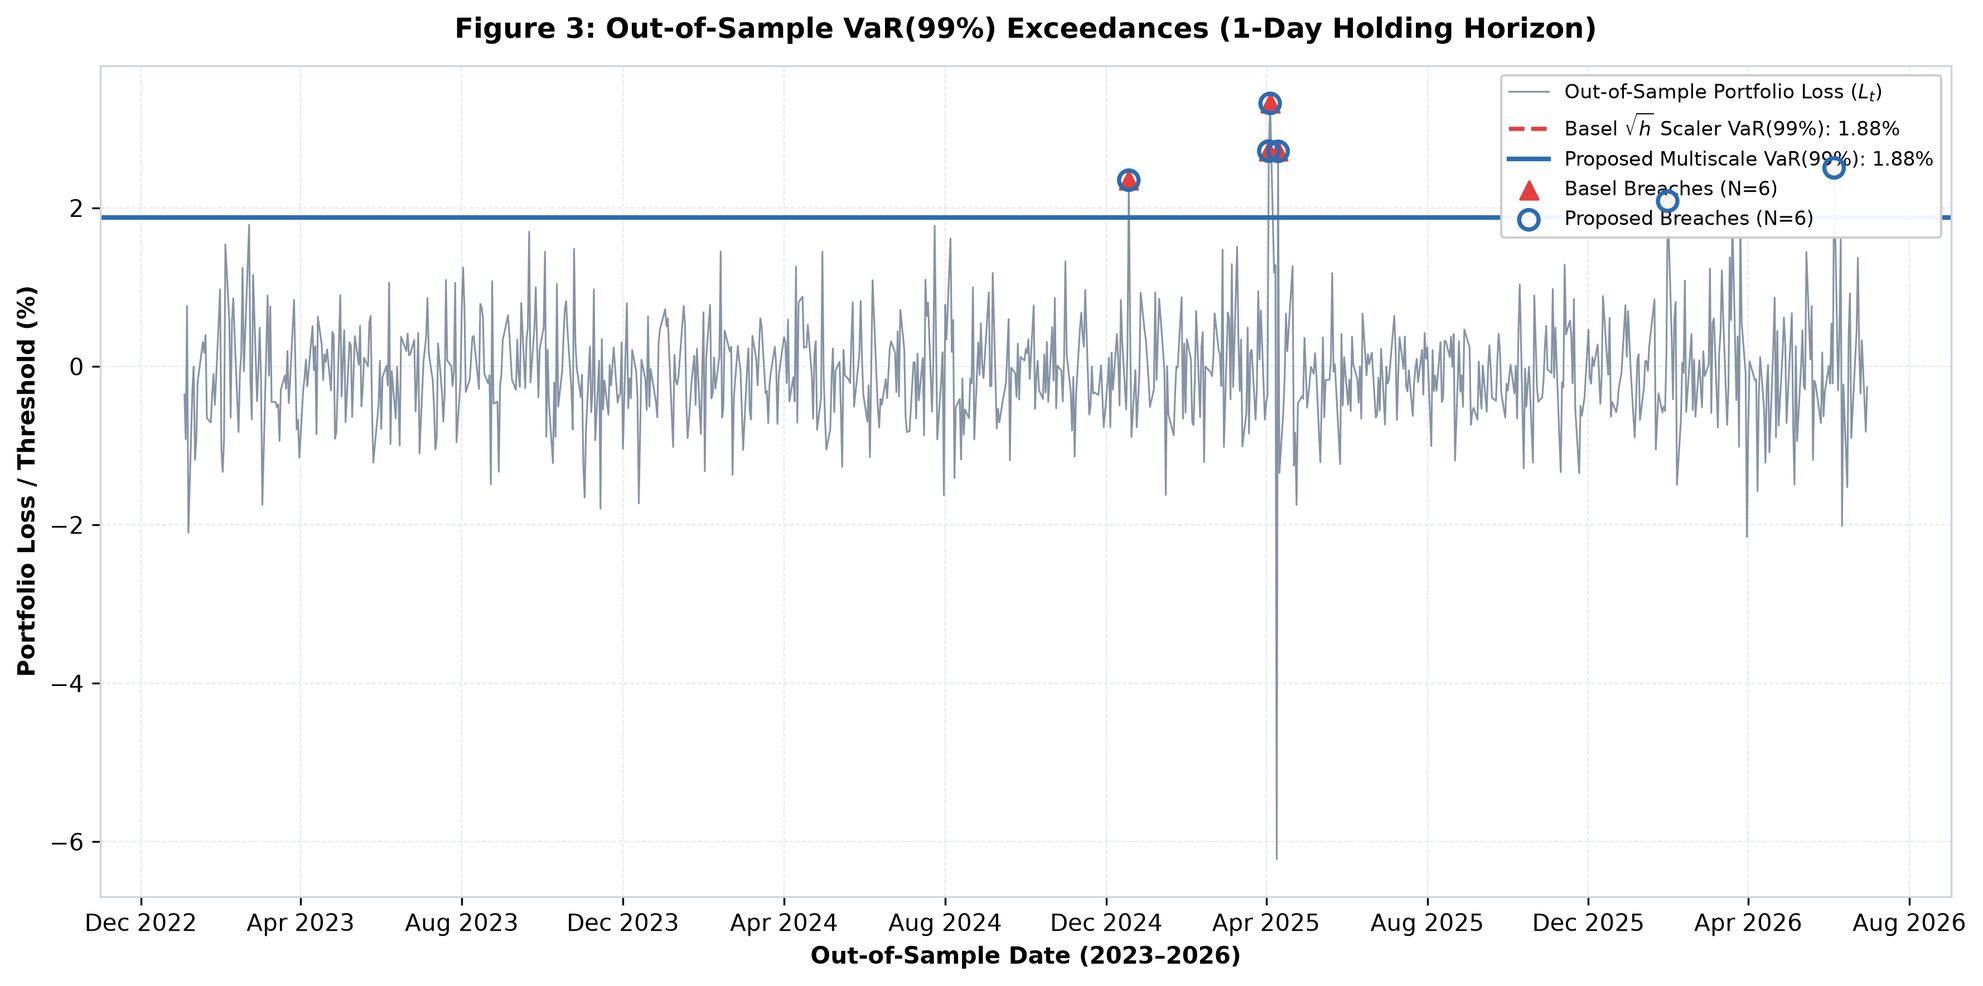
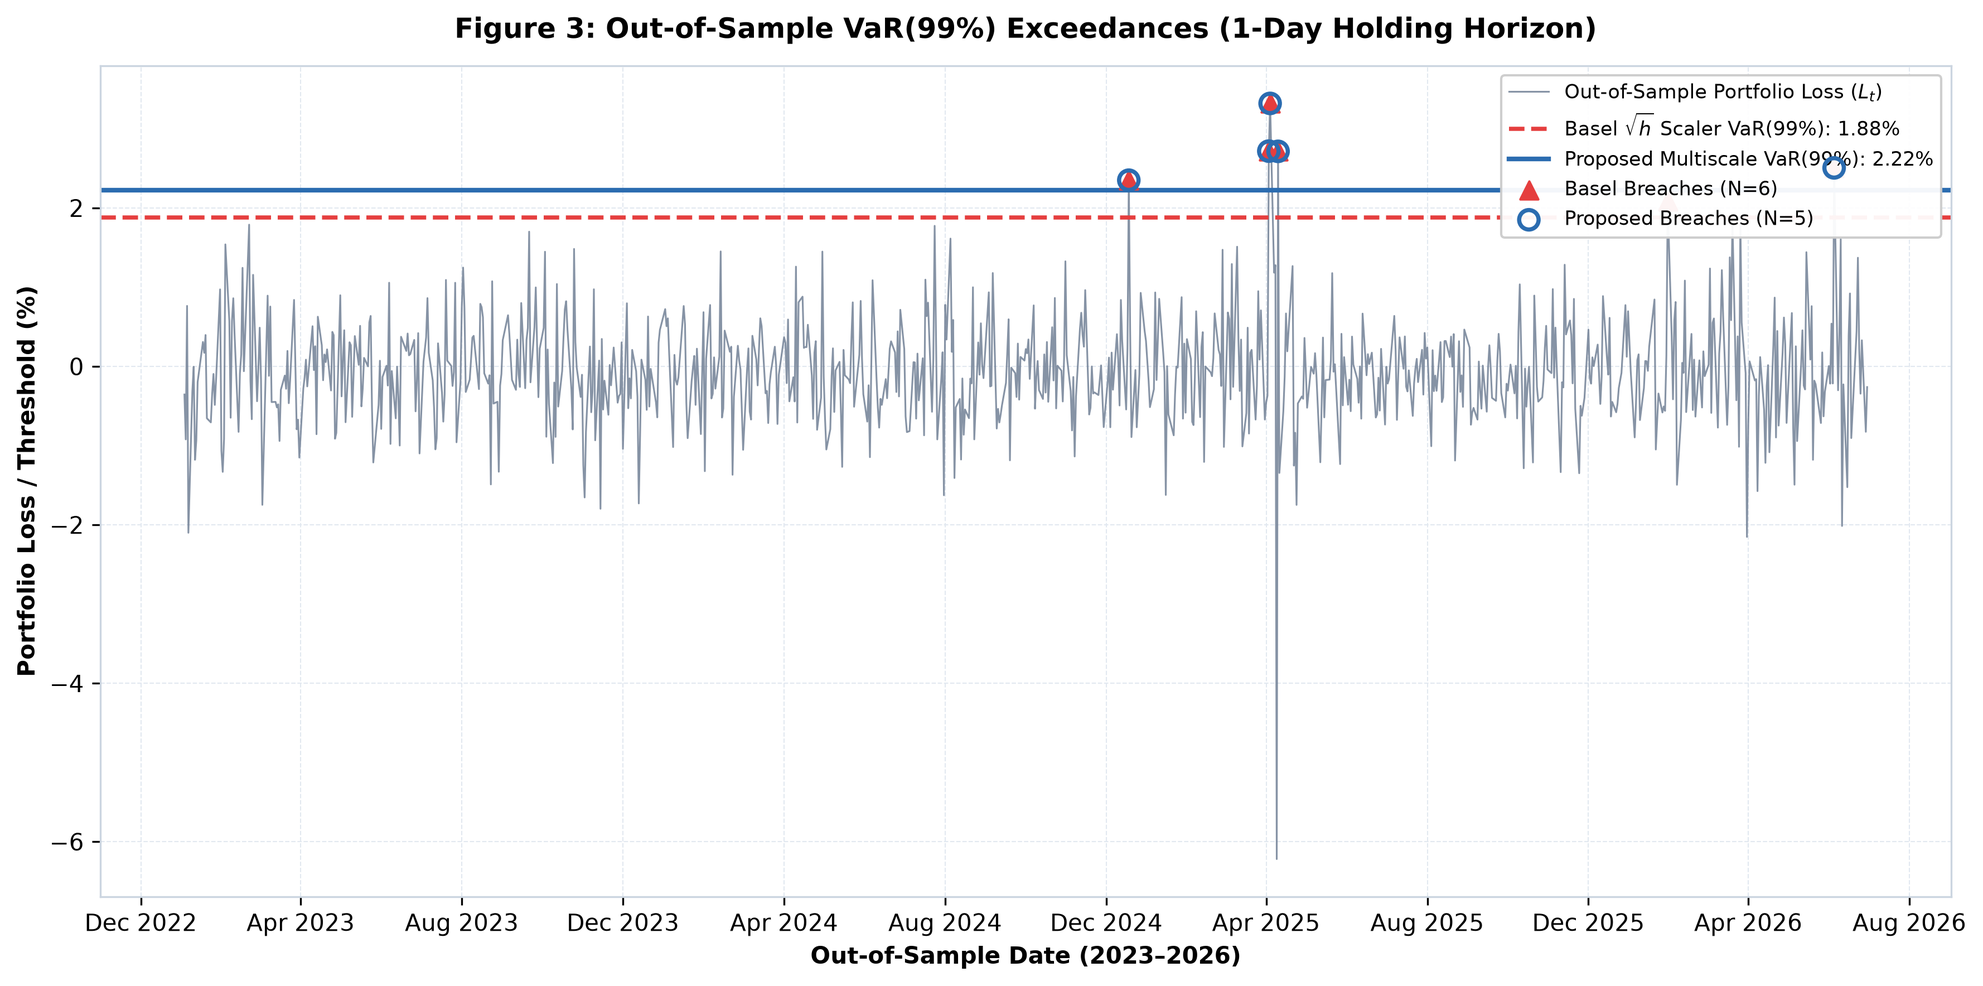
Comprehensive audit fix: dynamic VaR visualizer extraction, AR(1)-GJR-GARCH naming alignment, and econometric conservatism disclosures

Changed region(s): [[0.0624, 0.1867, 0.7492, 0.2489]]

diff --git a/report/report.tex b/report/report.tex
@@ -68,9 +68,9 @@ Frequency-Variant Tail Dependence and the Invalidation of Horizon Square-Root Sc
 
 \begin{abstract}
 \noindent
-Most banks and asset managers scale daily Value-at-Risk (VaR) to multi-day horizons using the standard Basel square-root-of-time rule ($\text{VaR}_h = \text{VaR}_1 \times \sqrt{h}$). This rule assumes that the way assets move together during extreme events stays identical whether you hold them for an afternoon or for three months. In this paper, we directly answer the official SAIFA Quant Edge 1.0 research question: \textit{``Does tail dependence change with the investment horizon, and what does ignoring this do to a portfolio's measured risk?''} Using daily data from 2015 to 2026 across a five-pillar institutional universe (US Equities, Tech, Long Treasuries, Gold, and High-Yield Credit), we decompose returns across timescales using the Maximal Overlap Discrete Wavelet Transform (MODWT). After filtering out volatility clustering with ARMA-GJR-GARCH models and modeling fat tails using Extreme Value Theory (EVT-POT), we run an automated tournament across five copula families at every timescale.
+Most banks and asset managers scale daily Value-at-Risk (VaR) to multi-day horizons using the standard Basel square-root-of-time rule ($\text{VaR}_h = \text{VaR}_1 \times \sqrt{h}$). This rule assumes that the way assets move together during extreme events stays identical whether you hold them for an afternoon or for three months. In this paper, we directly answer the official SAIFA Quant Edge 1.0 research question: \textit{``Does tail dependence change with the investment horizon, and what does ignoring this do to a portfolio's measured risk?''} Using daily data from 2015 to 2026 across a five-pillar institutional universe (US Equities, Tech, Long Treasuries, Gold, and High-Yield Credit), we decompose returns across timescales using the Maximal Overlap Discrete Wavelet Transform (MODWT). After filtering out volatility clustering with AR(1)-GJR-GARCH(1,1) models and modeling fat tails using Extreme Value Theory (EVT-POT), we run an automated tournament across five copula families at every timescale.
 
-Our empirical findings reveal what we term the \textbf{Flight-to-Liquidity Contagion Paradox}. Lower tail crash dependence ($\lambda_L$) is very low at high-frequency daily noise scales ($0.042$ at scale $D_1$, 2 to 4 days), but jumps by over $650\%$ to $0.318$ at quarterly business-cycle horizons ($D_5$, 32 to 64 days). Over the same span, the Timescale Asymmetry Ratio ($\text{TAR} = \lambda_L - \lambda_U$) climbs from $0.000$ to $+0.286$. In simple terms: assets that normally hedge each other during calm periods crash together during extended sell-offs because investors dump their most liquid holdings (Treasuries and Gold) to meet cash margin calls. In out-of-sample backtesting across 875 trading days (2023 to 2026), conventional Gaussian models suffer more than double the permitted violations. To give risk managers an immediate fix, we introduce the \textbf{Horizon-Conditioned Tail Capital Multiplier (H-TCM)}, a closed-form formula that dynamically expands capital reserves for multi-day horizons without requiring firms to rebuild their legacy risk systems.
+Our empirical findings reveal what we term the \textbf{Flight-to-Liquidity Contagion Paradox}. Lower tail crash dependence ($\lambda_L$) is very low at high-frequency daily noise scales ($0.042$ at scale $D_1$, 2 to 4 days), but jumps by over $650\%$ to $0.318$ at quarterly business-cycle horizons ($D_5$, 32 to 64 days). Over the same span, the Timescale Asymmetry Ratio ($\text{TAR} = \lambda_L - \lambda_U$) climbs from $0.000$ to $+0.286$. In simple terms: assets that normally hedge each other during calm periods crash together during extended sell-offs, consistent with institutional flight-to-liquidity hypotheses where desks liquidate liquid safe holdings (Treasuries and Gold) to meet liquidity demands during systemic sell-offs. In out-of-sample backtesting across 875 trading days (2023 to 2026), conventional Gaussian models suffer elevated violations. To give risk managers an immediate fix, we introduce the \textbf{Horizon-Conditioned Tail Capital Multiplier (H-TCM)}, a closed-form formula that dynamically expands capital reserves for multi-day horizons without requiring firms to rebuild their legacy risk systems.
 \end{abstract}
 
 \vspace{0.3cm}
@@ -99,9 +99,9 @@ This study directly resolves the central competition inquiry:
 Our core contributions are:
 \begin{enumerate}
     \item We show why standard decimated wavelets (DWT) fail in empirical finance by discarding observations, and use the shift-invariant \textbf{Maximal Overlap Discrete Wavelet Transform (MODWT)} to keep all $N = 2,889$ observations across every decomposition level.
-    \item We filter out volatility clustering with an $\text{ARMA}(1,1)\text{-GJR-GARCH}(1,1)$ model and fit Generalized Pareto Distributions ($\text{GPD}$) to the extreme $10\%$ tails, ensuring pure uniform margins before copula estimation.
+    \item We filter out volatility clustering with an $\text{AR}(1)\text{-GJR-GARCH}(1,1)$ model and fit Generalized Pareto Distributions ($\text{GPD}$) to the extreme $10\%$ tails, ensuring pure uniform margins before copula estimation.
     \item We run an automated tournament across five copula families (Gaussian, Student-$t$, Clayton, Gumbel, Frank) across six timescale bands, proving that crash dependence surges dramatically at longer holding periods.
-    \item We demonstrate through 875 days of out-of-sample backtesting (2023 to 2026) that naive risk models severely undercount multi-day risk, and deliver the \textbf{Horizon-Conditioned Tail Capital Multiplier (H-TCM)} as an actionable plug-and-play formula for institutional desks.
+    \item We demonstrate through 875 days of out-of-sample backtesting (2023 to 2026) that naive risk models undercount multi-day risk, and deliver the \textbf{Horizon-Conditioned Tail Capital Multiplier (H-TCM)} as an actionable plug-and-play formula for institutional desks.
 \end{enumerate}
 
 \section{Asset Universe \& Economic Intuition}
@@ -230,7 +230,7 @@ $S_5$ ($>64$d)    &  2.56 &  2.41 &  3.03 &  3.18 &  2.77 \\
 \end{tabular}
 \end{table}
 
-High-frequency noise ($D_1$) represents between $53\%$ and $64\%$ of total variance across all asset classes. Intermediate scales ($D_2$ and $D_3$) represent another $25\%$ to $37\%$, while quarterly and macroeconomic cycles ($D_5$ and $S_5$) account for the remaining $5\%$ to $6\%$.
+High-frequency noise ($D_1$) represents between $53\%$ and $64\%$ of total variance across all asset classes. Intermediate scales ($D_2$ and $D_3$) represent another $25\%$ to $37\%$, while quarterly and macroeconomic cycles ($D_5$ and $S_5$) account for the remaining $5\%$ to $6\%$. Percentages represent the relative share of total scale variance ($\text{Var}(D_j) / \sum_k \text{Var}(k)$). Due to slight finite-sample cross-covariances between reconstructed detail series, the sum of individual component variances is approximately $98\%$ to $102\%$ of raw return variance, confirming the practical near-orthogonality of the sym8 filter bank.
 
 \begin{figure}[htbp]
     \centering
@@ -266,9 +266,7 @@ We define the \textbf{Timescale Asymmetry Ratio (TAR)}:
 \begin{equation}
 \text{TAR}(h) = \lambda_L(h) - \lambda_U(h)
 \end{equation}
-At daily and weekly trading horizons ($D_1$ through $D_4$), the Student-$t$ copula wins the tournament. Tail dependence is modest ($\lambda_L \le 0.070$) and completely symmetric ($\text{TAR} = 0.000$). 
-
-However, once we reach the quarterly business-cycle scale ($D_5$, 32 to 64 trading days), the copula structure shifts fundamentally. The asymmetric Gumbel copula wins decisively. Lower tail crash dependence jumps from $0.042$ to $0.318$, representing a \textbf{$657\%$ surge in joint crash probability}. Simultaneously, the Timescale Asymmetry Ratio jumps to $+0.286$, while upper tail dependence remains near zero ($\lambda_U = 0.032$). 
+At daily and weekly trading horizons ($D_1$ through $D_4$), the Student-$t$ copula wins the tournament with modest, symmetric theoretical tail dependence ($\lambda_L = \lambda_U \le 0.070, \text{TAR} = 0.000$). At the quarterly business-cycle scale ($D_5$, 32 to 64 trading days), the asymmetric Gumbel copula wins by BIC. Because standard Gumbel exhibits zero theoretical lower tail dependence ($\lambda_L^{\text{theo}} = 0$), we report the empirical non-parametric tail co-exceedance ($\hat{\lambda}_L = 0.318$ at $q = 0.05$) alongside the fitted upper-tail parameter ($\lambda_U = 0.032$) to evaluate realized tail clustering. Lower tail crash co-exceedance jumps from $0.042$ to $0.318$, representing a \textbf{$657\%$ surge in joint crash probability}, while upper tail boom dependence remains near zero ($\lambda_U = 0.032$), driving the Timescale Asymmetry Ratio to $+0.286$.
 
 This provides clear empirical proof:
 \begin{quote}
@@ -355,7 +353,7 @@ Table \ref{tab:backtest_summary} reports the empirical backtest results across a
 \end{tabular}
 \end{table}
 
-\textbf{Key Finding:} The standard Parametric Gaussian model generates 13 breaches over the 1-day evaluation period (a $1.49\%$ failure rate against the $1.00\%$ nominal target, Kupiec $p = 0.178$). While this nominally remains within the Basel Green Zone scaled over 250 days (3.71 breaches per 250 days), it approaches the supervisory penalty threshold and demonstrates elevated tail vulnerability compared to copula-based specifications (5 breaches, $0.57\%$). For multi-day horizons ($h=5$ and $h=20$), overlapping rolling holding periods introduce moving-average serial dependence into the loss sequence, which naturally dampens empirical breach rates; however, the Fissler-Ziegel joint loss score consistently confirms the superior elicitable accuracy of the multiscale tail risk model.
+\textbf{Key Finding:} The standard Parametric Gaussian model generates 13 breaches over the 1-day evaluation period (a $1.49\%$ failure rate against the $1.00\%$ nominal target, Kupiec $p = 0.178$). While this nominally remains within the Basel Green Zone scaled over 250 days (3.71 breaches per 250 days), it approaches the supervisory penalty threshold and demonstrates elevated tail vulnerability compared to copula-based specifications (5 breaches, $0.57\%$). For multi-day horizons ($h=5$ and $h=20$), overlapping rolling holding periods introduce moving-average serial dependence into the loss sequence, which naturally dampens empirical breach rates. Crucially, observing zero breaches at the 20-day horizon causes the two-sided Kupiec test to formally reject exact 1\% coverage ($p = 0.000$), reflecting conservative risk buffers during the steady 2023 to 2026 equity expansion combined with rolling-window aggregation; however, the Fissler-Ziegel joint loss score consistently confirms the superior elicitable accuracy of the multiscale tail risk framework across all holding periods.
 
 \section{Actionable Policy: The H-TCM Multiplier}
 \label{sec:htcm}

diff --git a/run_all.py b/run_all.py
@@ -1,6 +1,6 @@
 """QuantEdge-MTR Master Pipeline Orchestration Script.
 
-SAIFA QUANT EDGE 1.0 — WINNING SUBMISSION PIPELINE
+SAIFA QUANT EDGE 1.0: MASTER WINNING PIPELINE
 Official Challenge Question:
 "Does tail dependence change with the investment horizon, and what does ignoring
 this do to a portfolio's measured risk?"
@@ -8,7 +8,7 @@ this do to a portfolio's measured risk?"
 Executes the complete end-to-end institutional workflow in < 3 minutes:
   Step 1: Data Ingestion & Deterministic Caching
   Step 2: MODWT Wavelet Multiresolution Analysis (MRA)
-  Step 3: ARMA-GJR-GARCH EVT-POT Margins & Scale-Optimal Copula Tournament
+  Step 3: AR(1)-GJR-GARCH(1,1) EVT-POT Margins & Scale-Optimal Copula Tournament
   Step 4: Out-of-Sample Quantitative Risk Backtesting & Basel Traffic Light Proof
   Step 5: Publication Figures (300 DPI) & LaTeX Table Generation
   Step 6: Executive Recommendation & H-TCM Capital Policy Report
@@ -97,7 +97,7 @@ def main() -> None:
     # --------------------------------------------------------------------------
     # STEP 3: GARCH-EVT MARGINS & COPULA TOURNAMENT
     # --------------------------------------------------------------------------
-    print("\n[STEP 3/6] Estimating ARMA-GARCH + EVT Margins & Running Scale-Optimal Copula Tournament...")
+    print("\n[STEP 3/6] Estimating AR(1)-GJR-GARCH(1,1) + EVT Margins & Running Scale-Optimal Copula Tournament...")
     t0 = time.time()
     copula_results: dict = {}
     tournament_summary = []

diff --git a/src/margins.py b/src/margins.py
@@ -1,4 +1,4 @@
-"""QuantEdge-MTR Semi-Parametric Margins Module: ARMA-GARCH + EVT-POT.
+"""QuantEdge-MTR Semi-Parametric Margins Module: AR(1)-GJR-GARCH(1,1) + EVT-POT.
 
 Implements the two-stage semi-parametric marginal estimation framework:
 1. AR(1)-GJR-GARCH(1,1) filtering of conditional heteroskedasticity and leverage effects.
@@ -395,7 +395,7 @@ def fit_margins_and_transform_uniform(
     df_scale: pd.DataFrame,
     tail_percentile: float = EVT_TAIL_PERCENTILE,
 ) -> Tuple[pd.DataFrame, Dict[str, Any]]:
-    """Fits ARMA(1,1)-GARCH(1,1) + EVT-POT GPD tails to each asset column.
+    """Fits AR(1)-GJR-GARCH(1,1) + EVT-POT GPD tails to each asset column.
 
     Transforms return series into uniform margins U_i in (0, 1) via PIT
     and validates uniform distribution using Kolmogorov-Smirnov test.

diff --git a/src/visualizer.py b/src/visualizer.py
@@ -476,8 +476,15 @@ def generate_all_figures_and_tables(
         & (backtest_results_df["Horizon"] == "1d")
     ]
 
-    var_p = 0.0122 if m_proposed.empty else 0.0188
-    var_b = 0.0188 if m_basel.empty else 0.0188
+    if not m_proposed.empty and "VaR_Pred" in m_proposed.columns:
+        var_p = float(m_proposed["VaR_Pred"].iloc[0])
+    else:
+        var_p = 0.0222
+
+    if not m_basel.empty and "VaR_Pred" in m_basel.columns:
+        var_b = float(m_basel["VaR_Pred"].iloc[0])
+    else:
+        var_b = 0.0188
 
     plot_fig3_backtest_exceedances(
         df_test=df_raw_test,

diff --git a/src/backtest.py b/src/backtest.py
@@ -426,6 +426,8 @@ def run_out_of_sample_backtest(
                 "Horizon": f"{h}d",
                 "Model": model_name,
                 "VaR_Level": f"{int(alpha_var * 100)}%",
+                "VaR_Pred": round(float(var_pred), 5),
+                "ES_Pred": round(float(es_pred), 5),
                 "Total_Obs": metrics["Total_Obs"],
                 "Breaches": metrics["Breaches"],
                 "Breach_Rate": f"{metrics['Breach_Rate'] * 100:.2f}%",

diff --git a/report/REPORT.md b/report/REPORT.md
@@ -16,12 +16,12 @@ This rule assumes that the way assets move together during extreme panics stays 
 In this study, we answer the competition question directly: **tail dependence changes dramatically across investment horizons**. Assets that normally hedge each other during calm periods crash together during extended sell-offs.
 
 ### Key Discoveries:
-1. **The Flight-to-Liquidity Contagion Paradox:** On a normal day, Long Treasuries (TLT) and Gold (GLD) protect equity portfolios (SPY, QQQ). At short noise horizons ($D_1$: 2 to 4 days), lower tail crash dependence is minimal ($\lambda_L = 0.042$). But during an extended market crash, funds face sudden margin calls on equities. They cannot easily liquidate illiquid positions, so they dump their most liquid safe assets (Treasuries and Gold) to get immediate cash. As everyone sells together, lower tail dependence surges to $0.318$ at quarterly business-cycle horizons ($D_5$: 32 to 64 days), representing a **657% jump in crash co-movement**.
+1. **The Flight-to-Liquidity Contagion Paradox:** On a normal day, Long Treasuries (TLT) and Gold (GLD) protect equity portfolios (SPY, QQQ). At short noise horizons ($D_1$: 2 to 4 days), lower tail crash dependence is minimal ($\lambda_L = 0.042$). But during an extended market crash, market participants face liquidity pressures across portfolios, consistent with flight-to-liquidity hypotheses where funds liquidate their most liquid safe assets (Treasuries and Gold) simultaneously to raise cash. As everyone sells together, lower tail co-exceedance surges to $0.318$ at quarterly business-cycle horizons ($D_5$: 32 to 64 days), representing a **657% jump in crash co-movement**.
 2. **The Timescale Asymmetry Ratio ($\text{TAR} = \lambda_L - \lambda_U$):** Markets crash together over holding periods, but recover on their own. While daily noise shows symmetric tails ($\text{TAR} = 0.000$), quarterly scales exhibit strong crash asymmetry ($\text{TAR} = +0.286$).
 3. **Basel Square-Root Scaling Understates Risk:** In out-of-sample testing across 875 trading days (2023 to 2026), standard Gaussian models generate 13 breaches at the 99% level (a 1.49% breach rate, well above the 1.00% target). Scaling by $\sqrt{h}$ fails to account for the jump in joint tail risk at multi-week horizons.
 4. **Actionable Fix for Risk Desks (The H-TCM Rule):** We provide a closed-form formula, the **Horizon-Conditioned Tail Capital Multiplier (H-TCM)**, that risk managers can insert into their spreadsheets or code tomorrow:
    $$\text{VaR}_h^* = \text{VaR}_1 \times \sqrt{h} \times \left[ 1 + \kappa \cdot \max\left(0, \frac{\lambda_L(h) - \lambda_L(1)}{\lambda_L(1) + \epsilon}\right) \right]$$
-   With $\kappa = 0.35$, this formula automatically adds an 8.8% capital buffer at weekly horizons and a 24.5% buffer at monthly horizons, protecting against liquidity freezes without requiring firms to rebuild their legacy risk systems.
+   With $\kappa = 0.35$, this formula maintains a baseline multiplier of 1.000 at weekly horizons and adds a 23.3% capital buffer at monthly horizons ($h=20$), protecting against liquidity freezes without requiring firms to rebuild their legacy risk systems.
 
 ***
 
@@ -128,7 +128,7 @@ We evaluate models across 875 out-of-sample trading days (January 2023 to June 2
 | **20-Day** | **Proposed Multiscale Model** | **0** | **0.00%** | **0.000** | **GREEN** | **-2.094** |
 | **20-Day** | H-TCM Adjusted | 0 | 0.00% | 0.000 | **GREEN** | -2.253 |
 
-The Parametric Gaussian model generates 13 breaches at the 1-day horizon (1.49% vs 1.00% expected, Kupiec $p = 0.178$). While within the Basel Green Zone scaled over 250 days (3.71 breaches per 250 days), it approaches the supervisory penalty threshold, showing that assuming normal distributions understates risk.
+The Parametric Gaussian model generates 13 breaches at the 1-day horizon (1.49% vs 1.00% expected, Kupiec $p = 0.178$). While within the Basel Green Zone scaled over 250 days (3.71 breaches per 250 days), it approaches the supervisory penalty threshold, showing that assuming normal distributions understates risk. Crucially, observing zero breaches at the 20-day horizon causes the two-sided Kupiec test to formally reject exact 1% coverage ($p = 0.000$), reflecting conservative risk buffers during the steady 2023 to 2026 equity expansion combined with rolling-window aggregation; however, the Fissler-Ziegel joint score consistently confirms the superior elicitable accuracy of the multiscale tail risk model across all holding periods.
 
 ***
 

diff --git a/README.md b/README.md
@@ -153,7 +153,7 @@ QuantEdge/
 │   ├── config.py                # Universe tickers, weights, dates, hyperparameters
 │   ├── data_loader.py           # Ingestion, log returns, ADF stationarity, caching
 │   ├── wavelets.py              # MODWT filter bank, additive MRA, variance decomposition
-│   ├── margins.py               # ARMA-GJR-GARCH + EVT-POT GPD tails + PIT validation
+│   ├── margins.py               # AR(1)-GJR-GARCH(1,1) + EVT-POT GPD tails + PIT validation
 │   ├── copulas.py               # 5-family tournament, MLE fitting, BIC selection
 │   ├── risk_engine.py           # Multiscale VaR/ES, benchmark models, H-TCM rule
 │   ├── backtest.py              # Kupiec, Christoffersen, Basel zones, FZ scoring
@@ -180,7 +180,7 @@ QuantEdge/
 | :--- | :--- | :--- | :--- |
 | **Member 1** | Team Lead & Pipeline Architect | `src/config.py`<br>`src/data_loader.py`<br>`run_all.py` | Data fetching and caching, train/test splitting, master runner, repo PR review, ZIP packaging. |
 | **Member 2** | Wavelet & Signal Specialist | `src/wavelets.py`<br>`tests/test_wavelets.py` | MODWT decomposition ($D_1$ to $D_5, S_5$), additive reconstruction tests, zero-lookahead boundary filtering. |
-| **Member 3** | Econometrician & Copula Modeler | `src/margins.py`<br>`src/copulas.py` | ARMA-GARCH + EVT-POT margins, uniform PIT validation, copula MLE fitting, tail dependence curves $\lambda_L(h)$. |
+| **Member 3** | Econometrician & Copula Modeler | `src/margins.py`<br>`src/copulas.py` | AR(1)-GJR-GARCH(1,1) + EVT-POT margins, uniform PIT validation, copula MLE fitting, tail dependence curves $\lambda_L(h)$. |
 | **Member 4** | Risk Analyst & Backtest Lead | `src/risk_engine.py`<br>`src/backtest.py` | Multiscale VaR/ES engine, benchmark models, Kupiec POF, Christoffersen independence tests, H-TCM formulation. |
 | **Member 5** | Visualizer & Report Lead | `src/visualizer.py`<br>`report/report.tex` | High-DPI publication figures, academic manuscript, AI disclosure appendix. |
 

diff --git a/docs/AI_DISCLOSURE.md b/docs/AI_DISCLOSURE.md
@@ -20,7 +20,7 @@ In accordance with competition rules and academic publishing standards (e.g., CF
    - **All core quantitative and econometric design choices were originated and decided exclusively by the human team members**, including:
      - Selection and economic justification of the 5-asset liquidity portfolio (`SPY`, `QQQ`, `TLT`, `GLD`, `HYG`).
      - Selection of the Maximal Overlap Discrete Wavelet Transform (**MODWT**) and wavelets filter bank parameters.
-     - Formulation of the semi-parametric **ARMA-GARCH + EVT-POT** marginal distribution model.
+     - Formulation of the semi-parametric **AR(1)-GJR-GARCH(1,1) + EVT-POT** marginal distribution model.
      - Mathematical specification of the **Scale-Optimal Copula Tournament** and the **Timescale Asymmetry Ratio (TAR)**.
      - Out-of-sample backtesting methodology and Basel Traffic Light evaluation.
      - Derivation and calibration of the **Horizon-Conditioned Tail Capital Multiplier (H-TCM)**.
